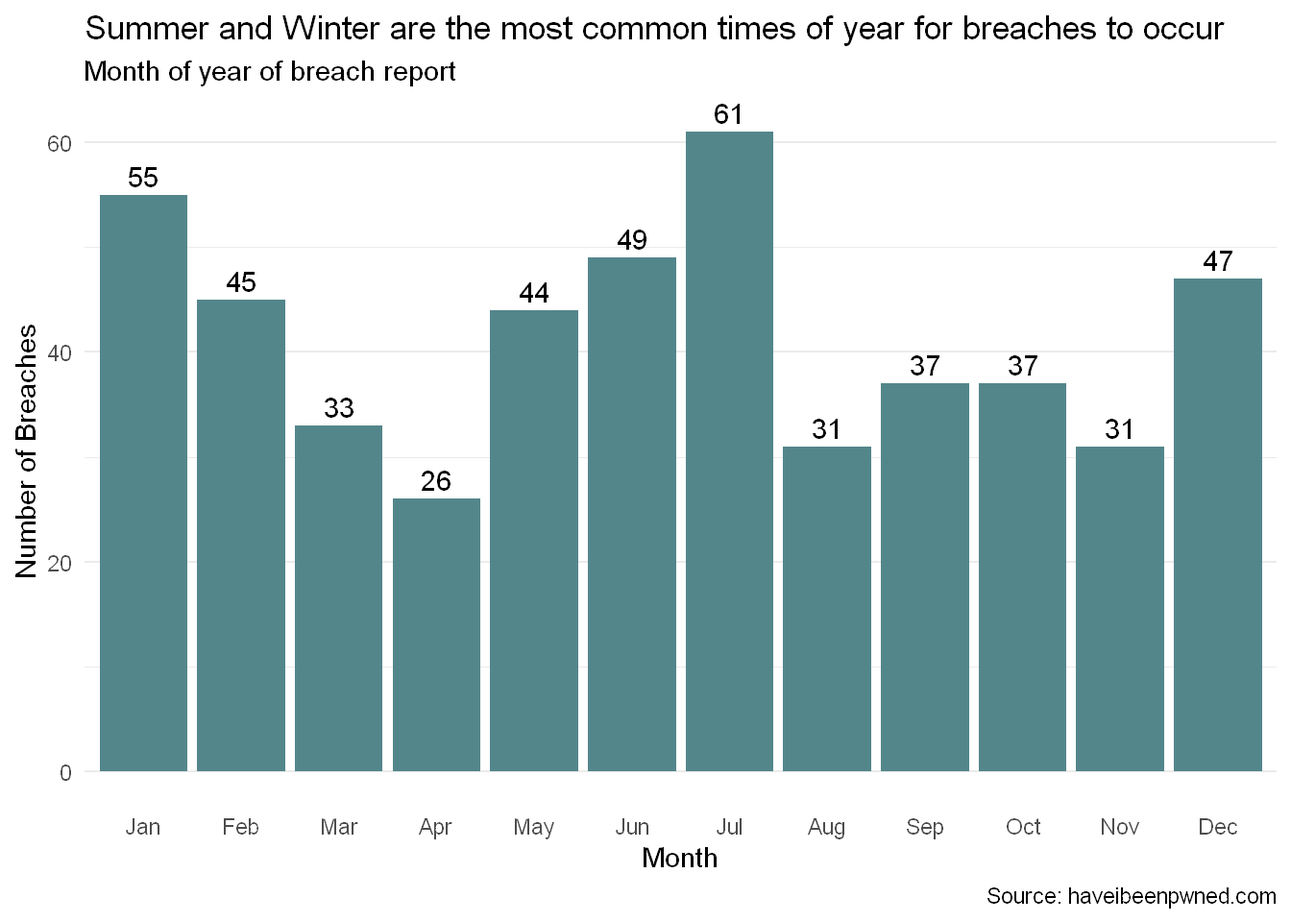
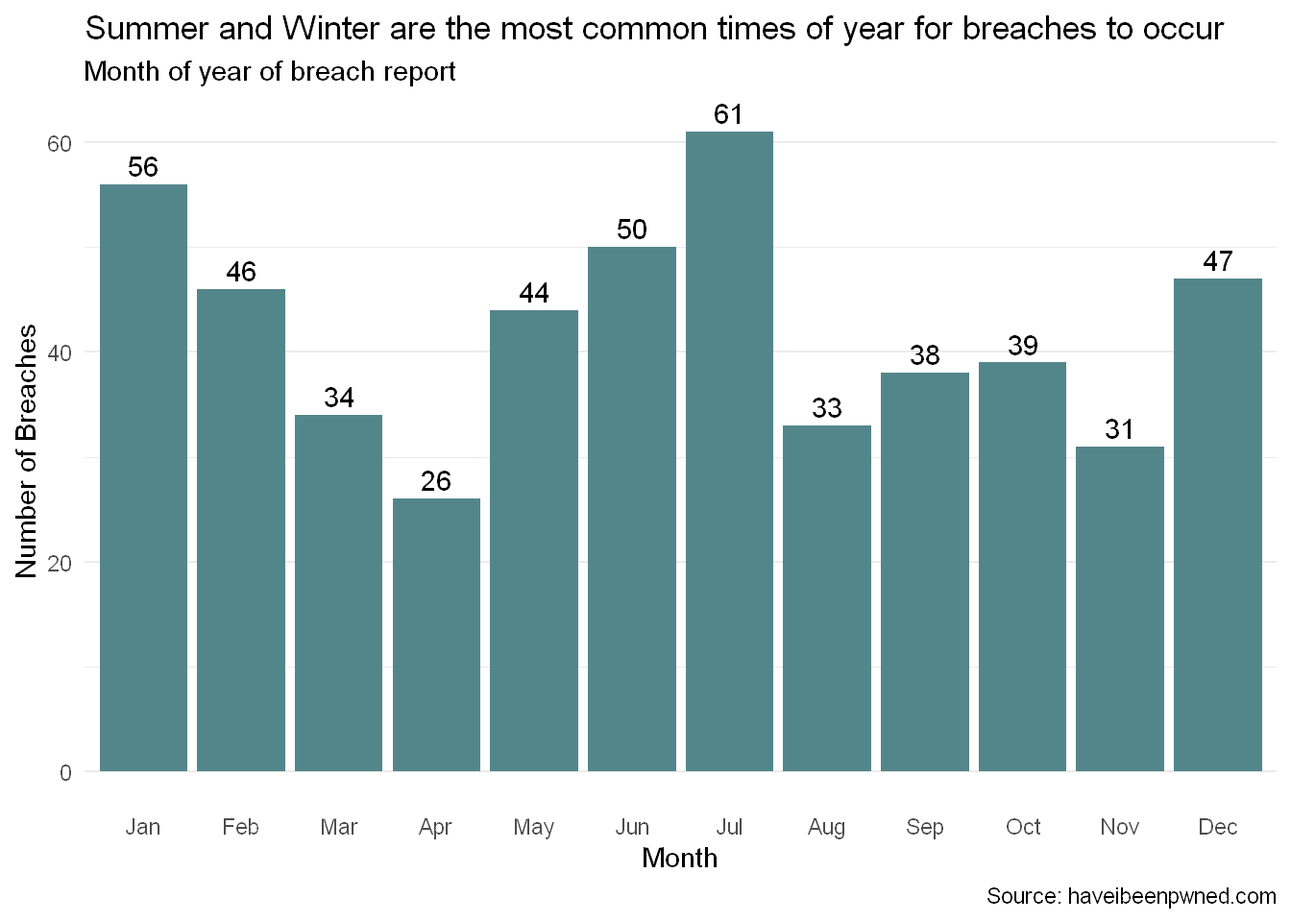
image change

diff --git a/content/post/2020-12-16-have-you-been-pwned/index.html b/content/post/2020-12-16-have-you-been-pwned/index.html
@@ -9,6 +9,7 @@ description: ''
 topics: []
 ---
 
+<script src="index_files/header-attrs/header-attrs.js"></script>
 <link href="index_files/anchor-sections/anchor-sections.css" rel="stylesheet" />
 <script src="index_files/anchor-sections/anchor-sections.js"></script>
 <script src="index_files/kePrint/kePrint.js"></script>
@@ -25,7 +26,7 @@ topics: []
 
 
 <p align="center">
-<img src="/images/cybersec.jpg" width="800" height="500">
+<img src="/images/cybersec.jpeg" width="800" height="500">
 </p>
 <p>To “pwn” someone means that you have effectively overpowered or dominated that individual. It used to be most commonly used when someone was beaten in a video game, but now it refers to when a nefarious cyber-attack has occurred and someone has had their personal information stolen.</p>
 <p>Recently, there was <a href="https://www.bbc.co.uk/news/technology-55363828">news</a> of a <a href="https://en.wikipedia.org/wiki/2020_United_States_federal_government_data_breach">major cyber-attack</a> on several US federal government agencies. Known as the ‘Sunburst Breach’, it attacked various organisations by going through a supply chain, which in this case was a network management and monitoring tool from the company Solarwinds which has over 300,000 public and private customers. The attackers were able to gain access to private emails and other sensitive documents. This affected over 18,000 customers, some of which include:</p>
@@ -130,7 +131,7 @@ FALSE
 FALSE
 </td>
 <td style="text-align:right;">
-422
+430
 </td>
 </tr>
 <tr>
@@ -150,7 +151,7 @@ FALSE
 FALSE
 </td>
 <td style="text-align:right;">
-30
+31
 </td>
 </tr>
 <tr>
@@ -377,6 +378,32 @@ FALSE
 </tr>
 <tr>
 <td style="text-align:left;">
+Pixlr
+</td>
+<td style="text-align:left;">
+2020-10-07
+</td>
+<td style="text-align:right;">
+1,906,808
+</td>
+<td style="text-align:left;">
+Email addresses , Geographic locations , Names , Passwords , Social media profiles
+</td>
+<td style="text-align:left;">
+TRUE
+</td>
+<td style="text-align:left;">
+FALSE
+</td>
+<td style="text-align:left;">
+FALSE
+</td>
+<td style="text-align:left;">
+FALSE
+</td>
+</tr>
+<tr>
+<td style="text-align:left;">
 Chowbus
 </td>
 <td style="text-align:left;">
@@ -387,6 +414,58 @@ Chowbus
 </td>
 <td style="text-align:left;">
 Email addresses , Names , Phone numbers , Physical addresses
+</td>
+<td style="text-align:left;">
+TRUE
+</td>
+<td style="text-align:left;">
+FALSE
+</td>
+<td style="text-align:left;">
+FALSE
+</td>
+<td style="text-align:left;">
+FALSE
+</td>
+</tr>
+<tr>
+<td style="text-align:left;">
+GeniusU
+</td>
+<td style="text-align:left;">
+2020-10-02
+</td>
+<td style="text-align:right;">
+1,301,460
+</td>
+<td style="text-align:left;">
+Email addresses , Genders , IP addresses , Names , Passwords , Social media profiles
+</td>
+<td style="text-align:left;">
+TRUE
+</td>
+<td style="text-align:left;">
+FALSE
+</td>
+<td style="text-align:left;">
+FALSE
+</td>
+<td style="text-align:left;">
+FALSE
+</td>
+</tr>
+<tr>
+<td style="text-align:left;">
+Nitro
+</td>
+<td style="text-align:left;">
+2020-09-28
+</td>
+<td style="text-align:right;">
+77,159,696
+</td>
+<td style="text-align:left;">
+Email addresses, Names , Passwords
 </td>
 <td style="text-align:left;">
 TRUE
@@ -427,84 +506,6 @@ FALSE
 FALSE
 </td>
 </tr>
-<tr>
-<td style="text-align:left;">
-Unico Campania
-</td>
-<td style="text-align:left;">
-2020-08-19
-</td>
-<td style="text-align:right;">
-166,031
-</td>
-<td style="text-align:left;">
-Email addresses, Passwords
-</td>
-<td style="text-align:left;">
-TRUE
-</td>
-<td style="text-align:left;">
-FALSE
-</td>
-<td style="text-align:left;">
-FALSE
-</td>
-<td style="text-align:left;">
-FALSE
-</td>
-</tr>
-<tr>
-<td style="text-align:left;">
-Lazada RedMart
-</td>
-<td style="text-align:left;">
-2020-07-30
-</td>
-<td style="text-align:right;">
-1,107,789
-</td>
-<td style="text-align:left;">
-Email addresses , Names , Partial credit card data, Passwords , Phone numbers , Physical addresses
-</td>
-<td style="text-align:left;">
-TRUE
-</td>
-<td style="text-align:left;">
-FALSE
-</td>
-<td style="text-align:left;">
-FALSE
-</td>
-<td style="text-align:left;">
-FALSE
-</td>
-</tr>
-<tr>
-<td style="text-align:left;">
-Utah Gun Exchange
-</td>
-<td style="text-align:left;">
-2020-07-17
-</td>
-<td style="text-align:right;">
-235,233
-</td>
-<td style="text-align:left;">
-Email addresses, Genders , IP addresses , Passwords , Usernames
-</td>
-<td style="text-align:left;">
-TRUE
-</td>
-<td style="text-align:left;">
-FALSE
-</td>
-<td style="text-align:left;">
-FALSE
-</td>
-<td style="text-align:left;">
-FALSE
-</td>
-</tr>
 </tbody>
 </table>
 <p>From table <a href="#tab:table1">2</a>, we see that the most recent hack was the Cit0day hack which contained nearly 227 million e-mail addresses and passwords. Other recent leaks such as the Wongnai leak contained information such as geographic locations, IP addresses, phone numbers, and social media profiles.</p>
@@ -521,7 +522,7 @@ FALSE
   rmarkdown::paged_table()</code></pre>
 <div data-pagedtable="false">
 <script data-pagedtable-source type="application/json">
-{"columns":[{"label":["DataClasses"],"name":[1],"type":["chr"],"align":["left"]},{"label":["Number of breaches"],"name":[2],"type":["int"],"align":["right"]}],"data":[{"1":"Email addresses","2":"491"},{"1":"Passwords","2":"408"},{"1":"Usernames","2":"288"},{"1":"IP addresses","2":"221"},{"1":"Names","2":"205"},{"1":"Dates of birth","2":"126"},{"1":"Phone numbers","2":"116"},{"1":"Physical addresses","2":"95"},{"1":"Genders","2":"84"},{"1":"Website activity","2":"76"},{"1":"Geographic locations","2":"65"},{"1":"Private messages","2":"24"},{"1":"Social media profiles","2":"22"},{"1":"Employers","2":"20"},{"1":"Job titles","2":"19"},{"1":"Purchases","2":"14"},{"1":"Spoken languages","2":"14"},{"1":"Device information","2":"11"},{"1":"Security questions and answers","2":"11"},{"1":"Partial credit card data","2":"10"},{"1":"Browser user agent details","2":"9"},{"1":"Email messages","2":"8"},{"1":"Government issued IDs","2":"8"},{"1":"Income levels","2":"8"},{"1":"Instant messenger identities","2":"8"},{"1":"Marital statuses","2":"8"},{"1":"Account balances","2":"7"},{"1":"Ethnicities","2":"7"},{"1":"Payment histories","2":"7"},{"1":"Auth tokens","2":"6"},{"1":"Avatars","2":"6"},{"1":"Family structure","2":"6"},{"1":"Physical attributes","2":"6"},{"1":"Bios","2":"5"},{"1":"Credit cards","2":"5"},{"1":"Education levels","2":"5"},{"1":"Home ownership statuses","2":"5"},{"1":"Salutations","2":"5"},{"1":"Sexual orientations","2":"5"},{"1":"Social connections","2":"5"},{"1":"Time zones","2":"5"},{"1":"User website URLs","2":"5"},{"1":"Credit status information","2":"4"},{"1":"Historical passwords","2":"4"},{"1":"Passport numbers","2":"4"},{"1":"Religions","2":"4"},{"1":"Drinking habits","2":"3"},{"1":"Family members' names","2":"3"},{"1":"Occupations","2":"3"},{"1":"Partial dates of birth","2":"3"},{"1":"Personal descriptions","2":"3"},{"1":"Profile photos","2":"3"},{"1":"Relationship statuses","2":"3"},{"1":"Age groups","2":"2"},{"1":"Ages","2":"2"},{"1":"Bank account numbers","2":"2"},{"1":"Chat logs","2":"2"},{"1":"Financial investments","2":"2"},{"1":"Financial transactions","2":"2"},{"1":"Homepage URLs","2":"2"},{"1":"IMEI numbers","2":"2"},{"1":"Nationalities","2":"2"},{"1":"Net worths","2":"2"},{"1":"Nicknames","2":"2"},{"1":"Personal interests","2":"2"},{"1":"PINs","2":"2"},{"1":"Political views","2":"2"},{"1":"Sexual fetishes","2":"2"},{"1":"Smoking habits","2":"2"},{"1":"SMS messages","2":"2"},{"1":"Social security numbers","2":"2"},{"1":"Address book contacts","2":"1"},{"1":"Apps installed on devices","2":"1"},{"1":"Astrological signs","2":"1"},{"1":"Audio recordings","2":"1"},{"1":"Beauty ratings","2":"1"},{"1":"Biometric data","2":"1"},{"1":"Browsing histories","2":"1"},{"1":"Buying preferences","2":"1"},{"1":"Car ownership statuses","2":"1"},{"1":"Career levels","2":"1"},{"1":"Cellular network names","2":"1"},{"1":"Charitable donations","2":"1"},{"1":"Credit card CVV","2":"1"},{"1":"Customer feedback","2":"1"},{"1":"Customer interactions","2":"1"},{"1":"Deceased date","2":"1"},{"1":"Deceased statuses","2":"1"},{"1":"Device usage tracking data","2":"1"},{"1":"Drug habits","2":"1"},{"1":"Eating habits","2":"1"},{"1":"Employment statuses","2":"1"},{"1":"Encrypted keys","2":"1"},{"1":"Fitness levels","2":"1"},{"1":"Health insurance information","2":"1"},{"1":"Home loan information","2":"1"},{"1":"IMSI numbers","2":"1"},{"1":"Job applications","2":"1"},{"1":"Living costs","2":"1"},{"1":"MAC addresses","2":"1"},{"1":"Mnemonic phrases","2":"1"},{"1":"Mothers maiden names","2":"1"},{"1":"Parenting plans","2":"1"},{"1":"Password hints","2":"1"},{"1":"Password strengths","2":"1"},{"1":"Payment methods","2":"1"},{"1":"Personal health data","2":"1"},{"1":"Photos","2":"1"},{"1":"Places of birth","2":"1"},{"1":"Political donations","2":"1"},{"1":"Professional skills","2":"1"},{"1":"Purchasing habits","2":"1"},{"1":"Races","2":"1"},{"1":"Recovery email addresses","2":"1"},{"1":"Reward program balances","2":"1"},{"1":"School grades (class levels)","2":"1"},{"1":"Spouses names","2":"1"},{"1":"Support tickets","2":"1"},{"1":"Survey results","2":"1"},{"1":"Taxation records","2":"1"},{"1":"Travel habits","2":"1"},{"1":"User statuses","2":"1"},{"1":"Utility bills","2":"1"},{"1":"Vehicle details","2":"1"},{"1":"Work habits","2":"1"},{"1":"Years of professional experience","2":"1"}],"options":{"columns":{"min":{},"max":[10]},"rows":{"min":[10],"max":[10]},"pages":{}}}
+{"columns":[{"label":["DataClasses"],"name":[1],"type":["chr"],"align":["left"]},{"label":["Number of breaches"],"name":[2],"type":["int"],"align":["right"]}],"data":[{"1":"Email addresses","2":"499"},{"1":"Passwords","2":"417"},{"1":"Usernames","2":"290"},{"1":"IP addresses","2":"226"},{"1":"Names","2":"214"},{"1":"Dates of birth","2":"128"},{"1":"Phone numbers","2":"119"},{"1":"Physical addresses","2":"97"},{"1":"Genders","2":"87"},{"1":"Website activity","2":"76"},{"1":"Geographic locations","2":"68"},{"1":"Social media profiles","2":"25"},{"1":"Private messages","2":"24"},{"1":"Employers","2":"20"},{"1":"Job titles","2":"19"},{"1":"Purchases","2":"15"},{"1":"Spoken languages","2":"14"},{"1":"Device information","2":"11"},{"1":"Partial credit card data","2":"11"},{"1":"Security questions and answers","2":"11"},{"1":"Browser user agent details","2":"9"},{"1":"Marital statuses","2":"9"},{"1":"Email messages","2":"8"},{"1":"Government issued IDs","2":"8"},{"1":"Income levels","2":"8"},{"1":"Instant messenger identities","2":"8"},{"1":"Account balances","2":"7"},{"1":"Ethnicities","2":"7"},{"1":"Payment histories","2":"7"},{"1":"Physical attributes","2":"7"},{"1":"Auth tokens","2":"6"},{"1":"Avatars","2":"6"},{"1":"Family structure","2":"6"},{"1":"Sexual orientations","2":"6"},{"1":"Bios","2":"5"},{"1":"Credit cards","2":"5"},{"1":"Education levels","2":"5"},{"1":"Historical passwords","2":"5"},{"1":"Home ownership statuses","2":"5"},{"1":"Religions","2":"5"},{"1":"Salutations","2":"5"},{"1":"Social connections","2":"5"},{"1":"Time zones","2":"5"},{"1":"User website URLs","2":"5"},{"1":"Credit status information","2":"4"},{"1":"Drinking habits","2":"4"},{"1":"Passport numbers","2":"4"},{"1":"Family members' names","2":"3"},{"1":"Occupations","2":"3"},{"1":"Partial dates of birth","2":"3"},{"1":"Personal descriptions","2":"3"},{"1":"Profile photos","2":"3"},{"1":"Relationship statuses","2":"3"},{"1":"Smoking habits","2":"3"},{"1":"Age groups","2":"2"},{"1":"Ages","2":"2"},{"1":"Bank account numbers","2":"2"},{"1":"Chat logs","2":"2"},{"1":"Drug habits","2":"2"},{"1":"Financial investments","2":"2"},{"1":"Financial transactions","2":"2"},{"1":"Homepage URLs","2":"2"},{"1":"IMEI numbers","2":"2"},{"1":"Nationalities","2":"2"},{"1":"Net worths","2":"2"},{"1":"Nicknames","2":"2"},{"1":"Personal interests","2":"2"},{"1":"PINs","2":"2"},{"1":"Political views","2":"2"},{"1":"Sexual fetishes","2":"2"},{"1":"SMS messages","2":"2"},{"1":"Social security numbers","2":"2"},{"1":"Address book contacts","2":"1"},{"1":"Apps installed on devices","2":"1"},{"1":"Astrological signs","2":"1"},{"1":"Audio recordings","2":"1"},{"1":"Beauty ratings","2":"1"},{"1":"Biometric data","2":"1"},{"1":"Browsing histories","2":"1"},{"1":"Buying preferences","2":"1"},{"1":"Car ownership statuses","2":"1"},{"1":"Career levels","2":"1"},{"1":"Cellular network names","2":"1"},{"1":"Charitable donations","2":"1"},{"1":"Credit card CVV","2":"1"},{"1":"Customer feedback","2":"1"},{"1":"Customer interactions","2":"1"},{"1":"Deceased date","2":"1"},{"1":"Deceased statuses","2":"1"},{"1":"Device usage tracking data","2":"1"},{"1":"Eating habits","2":"1"},{"1":"Employment statuses","2":"1"},{"1":"Encrypted keys","2":"1"},{"1":"Fitness levels","2":"1"},{"1":"Health insurance information","2":"1"},{"1":"Home loan information","2":"1"},{"1":"IMSI numbers","2":"1"},{"1":"Job applications","2":"1"},{"1":"Living costs","2":"1"},{"1":"MAC addresses","2":"1"},{"1":"Mnemonic phrases","2":"1"},{"1":"Mothers maiden names","2":"1"},{"1":"Parenting plans","2":"1"},{"1":"Password hints","2":"1"},{"1":"Password strengths","2":"1"},{"1":"Payment methods","2":"1"},{"1":"Personal health data","2":"1"},{"1":"Photos","2":"1"},{"1":"Places of birth","2":"1"},{"1":"Political donations","2":"1"},{"1":"Professional skills","2":"1"},{"1":"Purchasing habits","2":"1"},{"1":"Races","2":"1"},{"1":"Recovery email addresses","2":"1"},{"1":"Reward program balances","2":"1"},{"1":"School grades (class levels)","2":"1"},{"1":"Spouses names","2":"1"},{"1":"Support tickets","2":"1"},{"1":"Survey results","2":"1"},{"1":"Taxation records","2":"1"},{"1":"Travel habits","2":"1"},{"1":"User statuses","2":"1"},{"1":"Utility bills","2":"1"},{"1":"Vehicle details","2":"1"},{"1":"Work habits","2":"1"},{"1":"Years of professional experience","2":"1"}],"options":{"columns":{"min":{},"max":[10]},"rows":{"min":[10],"max":[10]},"pages":{}}}
   </script>
 </div>
 <p>Showing the results in a graph,</p>
@@ -558,7 +559,7 @@ data_breach %&gt;%
 # wordcloud2(color=sample( c(&quot;#00FF41&quot;,&quot;#7FE706&quot;,&quot;#48A70B&quot;,&quot;#A4FF00&quot;,&quot;#66FF01&quot;,&quot;#2CE71E&quot;,&quot;#0AAF30&quot;),126,replace=TRUE), backgroundColor =&quot;black&quot;,rotateRatio=0,size=0.5,fontFamily=&quot;Rockwell&quot;)
    wordcloud2(color=&#39;random-light&#39;, backgroundColor = &quot;black&quot;,rotateRatio=0,size=0.5,fontFamily=&quot;Rockwell&quot;)</code></pre>
 <div id="htmlwidget-1" style="width:960px;height:480px;" class="wordcloud2 html-widget"></div>
-<script type="application/json" data-for="htmlwidget-1">{"x":{"word":["Email addresses","Passwords","Usernames","IP addresses","Names","Dates of birth","Phone numbers","Physical addresses","Genders","Website activity","Geographic locations","Private messages","Social media profiles","Employers","Job titles","Purchases","Spoken languages","Device information","Security questions and answers","Partial credit card data","Browser user agent details","Email messages","Government issued IDs","Income levels","Instant messenger identities","Marital statuses","Account balances","Ethnicities","Payment histories","Auth tokens","Avatars","Family structure","Physical attributes","Bios","Credit cards","Education levels","Home ownership statuses","Salutations","Sexual orientations","Social connections","Time zones","User website URLs","Credit status information","Historical passwords","Passport numbers","Religions","Drinking habits","Family members' names","Occupations","Partial dates of birth","Personal descriptions","Profile photos","Relationship statuses","Age groups","Ages","Bank account numbers","Chat logs","Financial investments","Financial transactions","Homepage URLs","IMEI numbers","Nationalities","Net worths","Nicknames","Personal interests","PINs","Political views","Sexual fetishes","Smoking habits","SMS messages","Social security numbers","Address book contacts","Apps installed on devices","Astrological signs","Audio recordings","Beauty ratings","Biometric data","Browsing histories","Buying preferences","Car ownership statuses","Career levels","Cellular network names","Charitable donations","Credit card CVV","Customer feedback","Customer interactions","Deceased date","Deceased statuses","Device usage tracking data","Drug habits","Eating habits","Employment statuses","Encrypted keys","Fitness levels","Health insurance information","Home loan information","IMSI numbers","Job applications","Living costs","MAC addresses","Mnemonic phrases","Mothers maiden names","Parenting plans","Password hints","Password strengths","Payment methods","Personal health data","Photos","Places of birth","Political donations","Professional skills","Purchasing habits","Races","Recovery email addresses","Reward program balances","School grades (class levels)","Spouses names","Support tickets","Survey results","Taxation records","Travel habits","User statuses","Utility bills","Vehicle details","Work habits","Years of professional experience"],"freq":[491,408,288,221,205,126,116,95,84,76,65,24,22,20,19,14,14,11,11,10,9,8,8,8,8,8,7,7,7,6,6,6,6,5,5,5,5,5,5,5,5,5,4,4,4,4,3,3,3,3,3,3,3,2,2,2,2,2,2,2,2,2,2,2,2,2,2,2,2,2,2,1,1,1,1,1,1,1,1,1,1,1,1,1,1,1,1,1,1,1,1,1,1,1,1,1,1,1,1,1,1,1,1,1,1,1,1,1,1,1,1,1,1,1,1,1,1,1,1,1,1,1,1,1,1,1],"fontFamily":"Rockwell","fontWeight":"bold","color":"random-light","minSize":0,"weightFactor":0.183299389002037,"backgroundColor":"black","gridSize":0,"minRotation":-0.785398163397448,"maxRotation":0.785398163397448,"shuffle":true,"rotateRatio":0,"shape":"circle","ellipticity":0.65,"figBase64":null,"hover":null},"evals":[],"jsHooks":{"render":[{"code":"function(el,x){\n                        console.log(123);\n                        if(!iii){\n                          window.location.reload();\n                          iii = False;\n\n                        }\n  }","data":null}]}}</script>
+<script type="application/json" data-for="htmlwidget-1">{"x":{"word":["Email addresses","Passwords","Usernames","IP addresses","Names","Dates of birth","Phone numbers","Physical addresses","Genders","Website activity","Geographic locations","Social media profiles","Private messages","Employers","Job titles","Purchases","Spoken languages","Device information","Partial credit card data","Security questions and answers","Browser user agent details","Marital statuses","Email messages","Government issued IDs","Income levels","Instant messenger identities","Account balances","Ethnicities","Payment histories","Physical attributes","Auth tokens","Avatars","Family structure","Sexual orientations","Bios","Credit cards","Education levels","Historical passwords","Home ownership statuses","Religions","Salutations","Social connections","Time zones","User website URLs","Credit status information","Drinking habits","Passport numbers","Family members' names","Occupations","Partial dates of birth","Personal descriptions","Profile photos","Relationship statuses","Smoking habits","Age groups","Ages","Bank account numbers","Chat logs","Drug habits","Financial investments","Financial transactions","Homepage URLs","IMEI numbers","Nationalities","Net worths","Nicknames","Personal interests","PINs","Political views","Sexual fetishes","SMS messages","Social security numbers","Address book contacts","Apps installed on devices","Astrological signs","Audio recordings","Beauty ratings","Biometric data","Browsing histories","Buying preferences","Car ownership statuses","Career levels","Cellular network names","Charitable donations","Credit card CVV","Customer feedback","Customer interactions","Deceased date","Deceased statuses","Device usage tracking data","Eating habits","Employment statuses","Encrypted keys","Fitness levels","Health insurance information","Home loan information","IMSI numbers","Job applications","Living costs","MAC addresses","Mnemonic phrases","Mothers maiden names","Parenting plans","Password hints","Password strengths","Payment methods","Personal health data","Photos","Places of birth","Political donations","Professional skills","Purchasing habits","Races","Recovery email addresses","Reward program balances","School grades (class levels)","Spouses names","Support tickets","Survey results","Taxation records","Travel habits","User statuses","Utility bills","Vehicle details","Work habits","Years of professional experience"],"freq":[499,417,290,226,214,128,119,97,87,76,68,25,24,20,19,15,14,11,11,11,9,9,8,8,8,8,7,7,7,7,6,6,6,6,5,5,5,5,5,5,5,5,5,5,4,4,4,3,3,3,3,3,3,3,2,2,2,2,2,2,2,2,2,2,2,2,2,2,2,2,2,2,1,1,1,1,1,1,1,1,1,1,1,1,1,1,1,1,1,1,1,1,1,1,1,1,1,1,1,1,1,1,1,1,1,1,1,1,1,1,1,1,1,1,1,1,1,1,1,1,1,1,1,1,1,1],"fontFamily":"Rockwell","fontWeight":"bold","color":"random-light","minSize":0,"weightFactor":0.180360721442886,"backgroundColor":"black","gridSize":0,"minRotation":-0.785398163397448,"maxRotation":0.785398163397448,"shuffle":true,"rotateRatio":0,"shape":"circle","ellipticity":0.65,"figBase64":null,"hover":null},"evals":[],"jsHooks":{"render":[{"code":"function(el,x){\n                        console.log(123);\n                        if(!iii){\n                          window.location.reload();\n                          iii = False;\n\n                        }\n  }","data":null}]}}</script>
 <p>From this we see that e-mail addresses had appeared in in 490 out of the 495 possible breaches, meaning emails were stolen 95% of the time in this data set. Passwords were stolen 82% of the time.</p>
 <pre class="r"><code>data_breach %&gt;%
   transmute(DataClasses,BreachYear = lubridate::year(BreachDate)) %&gt;% 
@@ -631,7 +632,7 @@ data_breach %&gt;%
   rmarkdown::paged_table()</code></pre>
 <div data-pagedtable="false">
 <script data-pagedtable-source type="application/json">
-{"columns":[{"label":["DataClasses"],"name":[1],"type":["chr"],"align":["left"]},{"label":["Total"],"name":[2],"type":["dbl"],"align":["right"]}],"data":[{"1":"Email addresses","2":"10469890250"},{"1":"Passwords","2":"7585675594"},{"1":"Names","2":"4579674164"},{"1":"Usernames","2":"3038489630"},{"1":"Phone numbers","2":"2947259433"},{"1":"IP addresses","2":"2648903371"},{"1":"Geographic locations","2":"2615156083"},{"1":"Genders","2":"2194669077"},{"1":"Dates of birth","2":"2136670143"},{"1":"Physical addresses","2":"2110491606"},{"1":"Job titles","2":"1900397201"},{"1":"Employers","2":"1797277305"},{"1":"Social media profiles","2":"1336799191"},{"1":"Spoken languages","2":"492968782"},{"1":"Bios","2":"300411276"},{"1":"Website activity","2":"283313968"},{"1":"User website URLs","2":"270209736"},{"1":"Ethnicities","2":"223945458"},{"1":"Income levels","2":"201113261"},{"1":"Education levels","2":"184035509"},{"1":"Religions","2":"183667521"},{"1":"Family structure","2":"172044178"},{"1":"Marital statuses","2":"169627054"},{"1":"Occupations","2":"157716250"},{"1":"Password hints","2":"152445165"},{"1":"Home ownership statuses","2":"150308804"},{"1":"Credit status information","2":"147923414"},{"1":"Salutations","2":"143418226"},{"1":"Financial investments","2":"139753895"},{"1":"Net worths","2":"139753895"},{"1":"Personal interests","2":"132677852"},{"1":"Sexual orientations","2":"100475525"},{"1":"Device information","2":"79108056"},{"1":"Sexual fetishes","2":"68160667"},{"1":"Relationship statuses","2":"55188865"},{"1":"Physical attributes","2":"54813394"},{"1":"Drinking habits","2":"52420957"},{"1":"Political views","2":"51320868"},{"1":"Auth tokens","2":"46074589"},{"1":"Security questions and answers","2":"45143503"},{"1":"Payment histories","2":"37190950"},{"1":"Profile photos","2":"34481150"},{"1":"Browser user agent details","2":"30960806"},{"1":"Personal descriptions","2":"29465733"},{"1":"Astrological signs","2":"27393015"},{"1":"Drug habits","2":"27393015"},{"1":"Fitness levels","2":"27393015"},{"1":"Parenting plans","2":"27393015"},{"1":"Travel habits","2":"27393015"},{"1":"Work habits","2":"27393015"},{"1":"Partial credit card data","2":"25438786"},{"1":"Smoking habits","2":"25027942"},{"1":"Nicknames","2":"23956494"},{"1":"IMEI numbers","2":"20624169"},{"1":"Address book contacts","2":"20580060"},{"1":"Apps installed on devices","2":"20580060"},{"1":"Cellular network names","2":"20580060"},{"1":"IMSI numbers","2":"20580060"},{"1":"Purchases","2":"18930152"},{"1":"Email messages","2":"11723845"},{"1":"Government issued IDs","2":"8470456"},{"1":"Account balances","2":"8317372"},{"1":"Buying preferences","2":"8176132"},{"1":"Charitable donations","2":"8176132"},{"1":"Political donations","2":"8176132"},{"1":"Purchasing habits","2":"7196890"},{"1":"Nationalities","2":"6141385"},{"1":"Password strengths","2":"5814988"},{"1":"Private messages","2":"5653209"},{"1":"Family members' names","2":"5645786"},{"1":"PINs","2":"5122675"},{"1":"Races","2":"3867997"},{"1":"Avatars","2":"3825765"},{"1":"Social connections","2":"3692955"},{"1":"Social security numbers","2":"3206897"},{"1":"Instant messenger identities","2":"2827558"},{"1":"Payment methods","2":"2424784"},{"1":"Deceased statuses","2":"2257930"},{"1":"Survey results","2":"2231256"},{"1":"Time zones","2":"1945839"},{"1":"Historical passwords","2":"1890847"},{"1":"Partial dates of birth","2":"1623786"},{"1":"Recovery email addresses","2":"1476783"},{"1":"Encrypted keys","2":"1408078"},{"1":"Mnemonic phrases","2":"1408078"},{"1":"Eating habits","2":"1383759"},{"1":"Ages","2":"1336754"},{"1":"Homepage URLs","2":"1264321"},{"1":"Beauty ratings","2":"1100089"},{"1":"Car ownership statuses","2":"1100089"},{"1":"Professional skills","2":"1073164"},{"1":"Years of professional experience","2":"1073164"},{"1":"Credit cards","2":"1047526"},{"1":"Home loan information","2":"972629"},{"1":"Living costs","2":"768890"},{"1":"Mothers maiden names","2":"768890"},{"1":"Places of birth","2":"768890"},{"1":"Spouses names","2":"768890"},{"1":"Device usage tracking data","2":"699793"},{"1":"Passport numbers","2":"692545"},{"1":"School grades (class levels)","2":"542902"},{"1":"Financial transactions","2":"532919"},{"1":"Taxation records","2":"471167"},{"1":"Chat logs","2":"415240"},{"1":"Vehicle details","2":"396650"},{"1":"Bank account numbers","2":"331393"},{"1":"Health insurance information","2":"321920"},{"1":"Personal health data","2":"321920"},{"1":"Biometric data","2":"228605"},{"1":"Job applications","2":"226095"},{"1":"User statuses","2":"149830"},{"1":"Customer interactions","2":"139395"},{"1":"MAC addresses","2":"139395"},{"1":"Age groups","2":"121795"},{"1":"Credit card CVV","2":"104977"},{"1":"SMS messages","2":"100130"},{"1":"Customer feedback","2":"88678"},{"1":"Deceased date","2":"81830"},{"1":"Utility bills","2":"81830"},{"1":"Employment statuses","2":"49681"},{"1":"Audio recordings","2":"44109"},{"1":"Browsing histories","2":"44109"},{"1":"Photos","2":"44109"},{"1":"Career levels","2":"36789"},{"1":"Support tickets","2":"26815"},{"1":"Reward program balances","2":"2239"}],"options":{"columns":{"min":{},"max":[10]},"rows":{"min":[10],"max":[10]},"pages":{}}}
+{"columns":[{"label":["DataClasses"],"name":[1],"type":["chr"],"align":["left"]},{"label":["Total"],"name":[2],"type":["dbl"],"align":["right"]}],"data":[{"1":"Email addresses","2":"10568852002"},{"1":"Passwords","2":"7704169166"},{"1":"Names","2":"4698167736"},{"1":"Usernames","2":"3040959547"},{"1":"Phone numbers","2":"2971933917"},{"1":"IP addresses","2":"2684952504"},{"1":"Geographic locations","2":"2638017428"},{"1":"Genders","2":"2199723989"},{"1":"Dates of birth","2":"2140423595"},{"1":"Physical addresses","2":"2132835355"},{"1":"Job titles","2":"1900397201"},{"1":"Employers","2":"1797277305"},{"1":"Social media profiles","2":"1341430176"},{"1":"Spoken languages","2":"492968782"},{"1":"Bios","2":"300411276"},{"1":"Website activity","2":"283313968"},{"1":"User website URLs","2":"270209736"},{"1":"Ethnicities","2":"223945458"},{"1":"Income levels","2":"201113261"},{"1":"Religions","2":"185090238"},{"1":"Education levels","2":"184035509"},{"1":"Family structure","2":"172044178"},{"1":"Marital statuses","2":"171049771"},{"1":"Occupations","2":"157716250"},{"1":"Password hints","2":"152445165"},{"1":"Home ownership statuses","2":"150308804"},{"1":"Credit status information","2":"147923414"},{"1":"Salutations","2":"143418226"},{"1":"Financial investments","2":"139753895"},{"1":"Net worths","2":"139753895"},{"1":"Personal interests","2":"132677852"},{"1":"Sexual orientations","2":"101898242"},{"1":"Device information","2":"79108056"},{"1":"Sexual fetishes","2":"68160667"},{"1":"Physical attributes","2":"56236111"},{"1":"Relationship statuses","2":"55188865"},{"1":"Drinking habits","2":"53843674"},{"1":"Political views","2":"51320868"},{"1":"Auth tokens","2":"46074589"},{"1":"Security questions and answers","2":"45143503"},{"1":"Payment histories","2":"37190950"},{"1":"Profile photos","2":"34481150"},{"1":"Browser user agent details","2":"30960806"},{"1":"Personal descriptions","2":"29465733"},{"1":"Drug habits","2":"28815732"},{"1":"Partial credit card data","2":"28250715"},{"1":"Astrological signs","2":"27393015"},{"1":"Fitness levels","2":"27393015"},{"1":"Parenting plans","2":"27393015"},{"1":"Travel habits","2":"27393015"},{"1":"Work habits","2":"27393015"},{"1":"Smoking habits","2":"26450659"},{"1":"Nicknames","2":"23956494"},{"1":"Purchases","2":"21742081"},{"1":"IMEI numbers","2":"20624169"},{"1":"Address book contacts","2":"20580060"},{"1":"Apps installed on devices","2":"20580060"},{"1":"Cellular network names","2":"20580060"},{"1":"IMSI numbers","2":"20580060"},{"1":"Email messages","2":"11723845"},{"1":"Government issued IDs","2":"8470456"},{"1":"Account balances","2":"8317372"},{"1":"Buying preferences","2":"8176132"},{"1":"Charitable donations","2":"8176132"},{"1":"Political donations","2":"8176132"},{"1":"Purchasing habits","2":"7196890"},{"1":"Nationalities","2":"6141385"},{"1":"Password strengths","2":"5814988"},{"1":"Private messages","2":"5653209"},{"1":"Family members' names","2":"5645786"},{"1":"PINs","2":"5122675"},{"1":"Historical passwords","2":"4702776"},{"1":"Races","2":"3867997"},{"1":"Avatars","2":"3825765"},{"1":"Social connections","2":"3692955"},{"1":"Social security numbers","2":"3206897"},{"1":"Instant messenger identities","2":"2827558"},{"1":"Payment methods","2":"2424784"},{"1":"Deceased statuses","2":"2257930"},{"1":"Survey results","2":"2231256"},{"1":"Time zones","2":"1945839"},{"1":"Partial dates of birth","2":"1623786"},{"1":"Recovery email addresses","2":"1476783"},{"1":"Encrypted keys","2":"1408078"},{"1":"Mnemonic phrases","2":"1408078"},{"1":"Eating habits","2":"1383759"},{"1":"Ages","2":"1336754"},{"1":"Homepage URLs","2":"1264321"},{"1":"Beauty ratings","2":"1100089"},{"1":"Car ownership statuses","2":"1100089"},{"1":"Professional skills","2":"1073164"},{"1":"Years of professional experience","2":"1073164"},{"1":"Credit cards","2":"1047526"},{"1":"Home loan information","2":"972629"},{"1":"Living costs","2":"768890"},{"1":"Mothers maiden names","2":"768890"},{"1":"Places of birth","2":"768890"},{"1":"Spouses names","2":"768890"},{"1":"Device usage tracking data","2":"699793"},{"1":"Passport numbers","2":"692545"},{"1":"School grades (class levels)","2":"542902"},{"1":"Financial transactions","2":"532919"},{"1":"Taxation records","2":"471167"},{"1":"Chat logs","2":"415240"},{"1":"Vehicle details","2":"396650"},{"1":"Bank account numbers","2":"331393"},{"1":"Health insurance information","2":"321920"},{"1":"Personal health data","2":"321920"},{"1":"Biometric data","2":"228605"},{"1":"Job applications","2":"226095"},{"1":"User statuses","2":"149830"},{"1":"Customer interactions","2":"139395"},{"1":"MAC addresses","2":"139395"},{"1":"Age groups","2":"121795"},{"1":"Credit card CVV","2":"104977"},{"1":"SMS messages","2":"100130"},{"1":"Customer feedback","2":"88678"},{"1":"Deceased date","2":"81830"},{"1":"Utility bills","2":"81830"},{"1":"Employment statuses","2":"49681"},{"1":"Audio recordings","2":"44109"},{"1":"Browsing histories","2":"44109"},{"1":"Photos","2":"44109"},{"1":"Career levels","2":"36789"},{"1":"Support tickets","2":"26815"},{"1":"Reward program balances","2":"2239"}],"options":{"columns":{"min":{},"max":[10]},"rows":{"min":[10],"max":[10]},"pages":{}}}
   </script>
 </div>
 <p>The top 5 total number of data types leaked are</p>
@@ -1044,7 +1045,7 @@ Jun
 1
 </td>
 <td style="text-align:center;">
-11
+12
 </td>
 </tr>
 <tr>
@@ -1093,7 +1094,7 @@ Apr
 </tr>
 <tr>
 <td style="text-align:center;">
-Aug
+Feb
 </td>
 <td style="text-align:center;">
 1
@@ -1104,13 +1105,13 @@ Aug
 </tr>
 <tr>
 <td style="text-align:center;">
-Feb
+Aug
 </td>
 <td style="text-align:center;">
 1
 </td>
 <td style="text-align:center;">
-5
+6
 </td>
 </tr>
 <tr>

diff --git a/content/post/2020-12-16-have-you-been-pwned/index_files/header-attrs/header-attrs.js b/content/post/2020-12-16-have-you-been-pwned/index_files/header-attrs/header-attrs.js
@@ -1,0 +1,12 @@
+// Pandoc 2.9 adds attributes on both header and div. We remove the former (to
+// be compatible with the behavior of Pandoc < 2.8).
+document.addEventListener('DOMContentLoaded', function(e) {
+  var hs = document.querySelectorAll("div.section[class*='level'] > :first-child");
+  var i, h, a;
+  for (i = 0; i < hs.length; i++) {
+    h = hs[i];
+    if (!/^h[1-6]$/i.test(h.tagName)) continue;  // it should be a header h1-h6
+    a = h.attributes;
+    while (a.length > 0) h.removeAttribute(a[0].name);
+  }
+});

diff --git a/content/about.md b/content/about.md
@@ -7,10 +7,10 @@ title: About
 
 Hi! 
 
-My name is Gurpreet and this is my blog about anything related to data. 
+My name is Gurpreet, I hold a Masters degree in Mathematics, and this is my blog about anything related to data. 
 
-I will fill this about me section in the future.
+I will mainly be focusing on using R to explore various datasets.
+
+I also hope to fill out this section in the future.
 
 Thanks for reading!
-
-THIS IS A TEST
